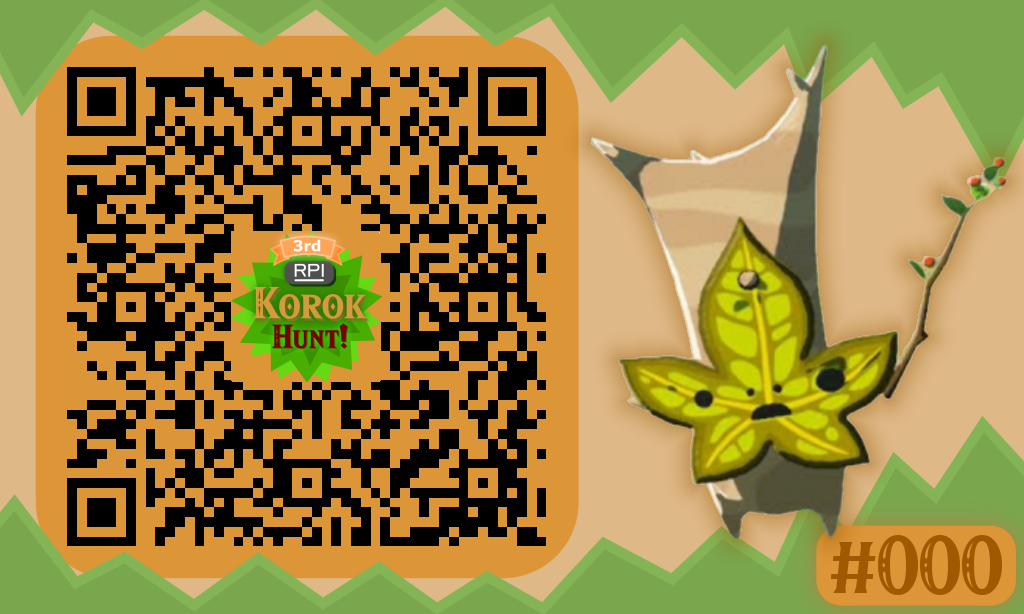
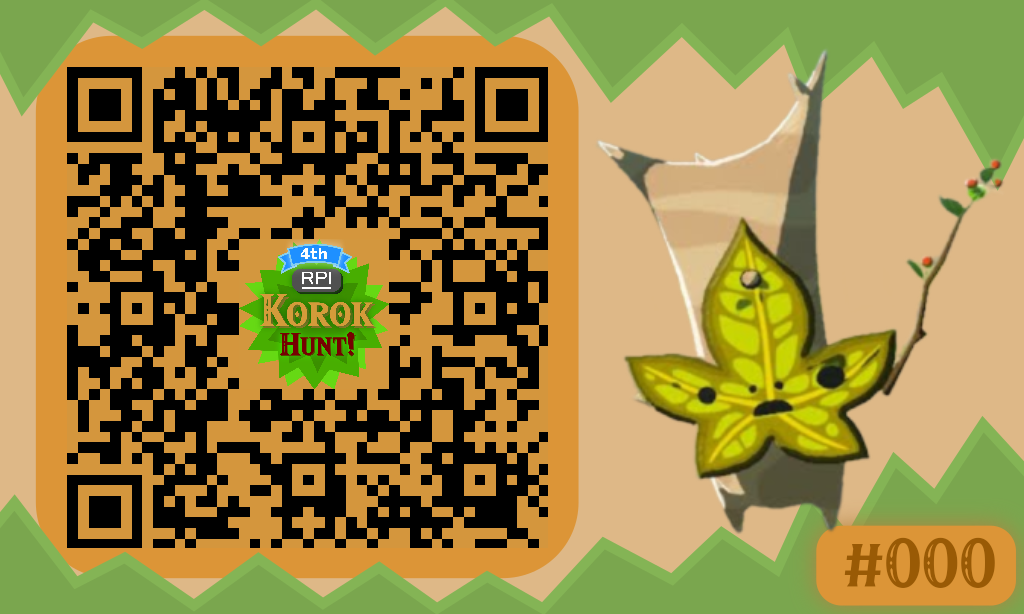
Update example sticker & remove irrelevant files

Changed region(s): [[0.0625, 0.0928, 0.5625, 0.8974], [0.5625, 0.0619, 1.0, 0.9902]]

diff --git a/src/routes/+page.svelte b/src/routes/+page.svelte
@@ -3,24 +3,10 @@
 	import * as Card from '$lib/components/ui/card/';
 	import { onMount } from 'svelte';
 	import { getAreas, getKoroks } from './query/korok.remote';
-	import { generateQRCode } from '$lib/utils';
 	import { Lightbulb, TriangleAlert, Trophy } from 'lucide-svelte';
 
 	let areas = getAreas();
 	let markers = getKoroks();
-
-	let canvas: HTMLCanvasElement;
-
-	onMount(() => {
-		if (canvas) {
-			generateQRCode({
-				id: '000',
-				number: 0,
-				type: 0,
-				canvasP: canvas
-			});
-		}
-	});
 
 	const faq = [
 		{
@@ -205,10 +191,7 @@
 				</Card.Content>
 
 				<div class="m-1 rounded-xl bg-secondary/30 p-4 sm:p-6">
-					<canvas
-						class="h-full max-h-125 w-full rounded-2xl object-contain shadow-md"
-						bind:this={canvas}
-					></canvas>
+                    <img src="/sticker_example.png" alt="Example of a Korok sticker" class="h-full max-h-125 w-full rounded-2xl object-contain shadow-md" />
 				</div>
 			</div>
 		</Card.Root>

diff --git a/src/lib/components/map/map.svelte b/src/lib/components/map/map.svelte
@@ -444,10 +444,6 @@
 				});
 			}
 
-			/*
-			 * You'll need korok.png/svg added to the map later.
-			 * For now, use circles so we don't depend on an image.
-			 */
 			map.loadImage('/seed.png').then((img) => {
 				if (!map.hasImage('korok')) {
 					map.addImage('korok', img.data);
